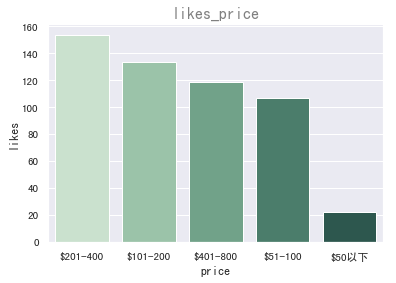
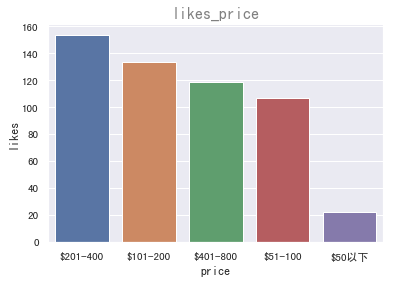
delete  palette

diff --git a/notes-week-09.md b/notes-week-09.md
@@ -189,7 +189,7 @@ Example: Draw a bar chart between price range and likes, you can easily find tha
 ```python
 sns.set(font='SimHei') #set font to support Chinese character
 pd_df = df.groupby(['price'])['likes'].mean().reset_index().sort_values("likes",ascending=False) #this is to solve the output chart is not sorted by likes.
-ax = sns.barplot(x='price', y='likes',data=pd_df,palette=("ch:2.5,-.2,dark=.3")) #palette is like the color combination style
+ax = sns.barplot(x='price', y='likes',data=pd_df)
 plt.title('likes_price', color='gray', fontsize=16, weight='bold')
 ```
 
@@ -213,14 +213,6 @@ ax = sns.scatterplot(x="bookmark", y="likes",hue='price',data=df)
 ![Seaborn likes bookmark](assets/seaborn-likes-bookmark2.png)
 
 For more seaborn examples and tutorials, you can refer [here](hhttps://seaborn.pydata.org/tutorial.html)
-
-<!-- Apart from bar charts, there are many other style we can choose, the following is a simple demo of `catplot`.  You can refer [here](https://seaborn.pydata.org/generated/seaborn.catplot.html) for more plotting methods.
-
-```python
-sns.catplot(x="price", y="likes",hue="country", height=10, aspect=1,data=df)
-```
-
-![Seaborn cat-plot.png](assets/seaborn-cat-plot.png) -->
 
 ### plotly
 
